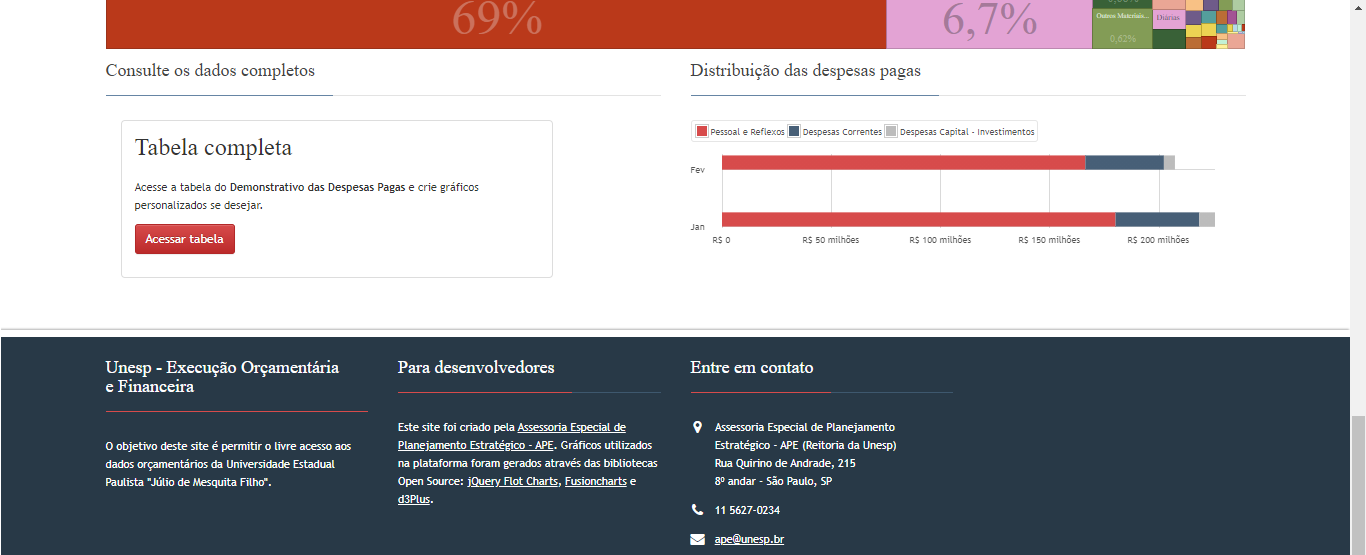
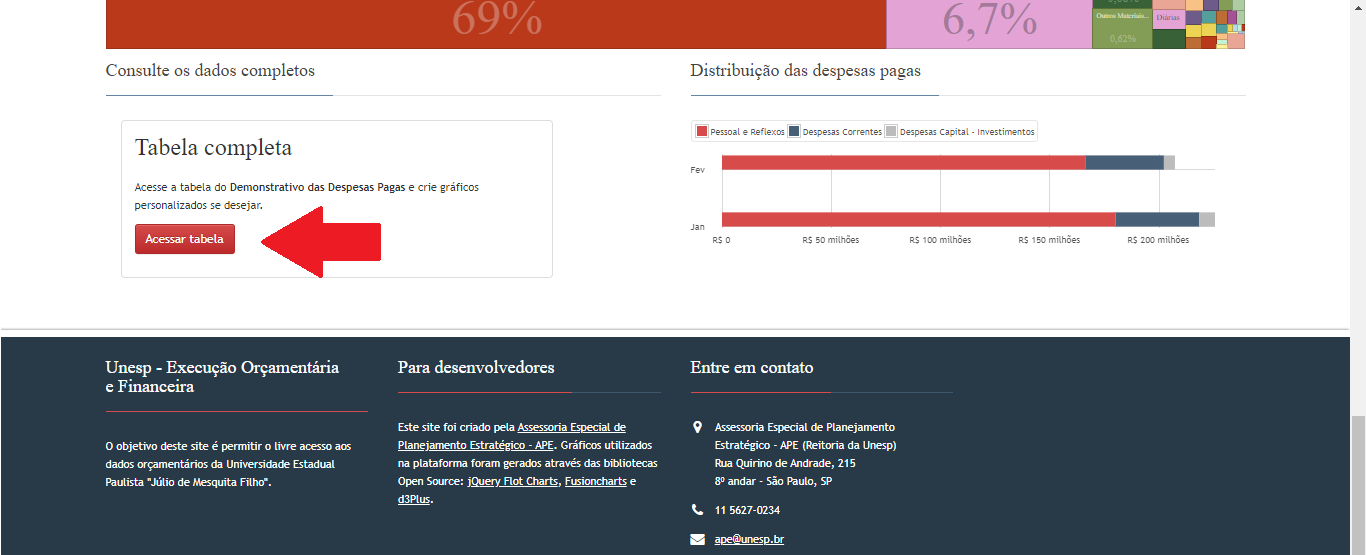
acesso

Changed region(s): [[0.1845, 0.3676, 0.2767, 0.4901]]

diff --git a/README.md b/README.md
@@ -55,7 +55,7 @@ universidade, no exemplo, selecione **10061 - UNESP CONSOLIDADA**.
 **5)** Novos campos serão apresentados, então, fizemos o preenchimento
 dos mesmos, como apresentado abaixo, para verificar os filtros
 disponíveis. O app apresenta um relatório com *infobox*’s e gráficos,
-contuido, sem os dados.
+contudo, sem a tabela de dados de interesse.
 
 <img src="https://raw.githubusercontent.com/arpanosso/projetofinal_Web_scraping/master/inst/ws_05.png" width="800px" style="display: block; margin: auto;" />
 
@@ -70,20 +70,27 @@ contuido, sem os dados.
 
 **7)** Será apresentado a tabela com os dados, ou seja, encontramos a
 nossa **url base**:
-“<https://ape.unesp.br/orcamento_anual/ddp_tabela.php>”
+“<https://ape.unesp.br/orcamento_anual/ddp_tabela.php>”, pois essa é a
+tabela que necessitamos.
 
 <img src="https://raw.githubusercontent.com/arpanosso/projetofinal_Web_scraping/master/inst/ws_07.png" width="800px" style="display: block; margin: auto;" />
 
 <br />
 
-**8)** para entender as requisições realizadas, utilizamos a opção de
-Inspecionar “Ctrl + shift + I”, em **Network**, limpamos os
-procedimentos, atualizamos a página com o **F5** e orgamizamos os
-processos por tipo. Observando o tipo “document”, clicamos em
-**ddp\_tabela.php**.
+**8)** Para entender as requisições realizadas, utilizamos a opção de
+Inspecionar “Ctrl + Shift + I”, em **Network**, atualizamos a página com
+o **F5** e ordenamos os processos por tipo (Type). Observando o tipo
+“document”, clicamos em **ddp\_tabela.php**.
 
 <img src="https://raw.githubusercontent.com/arpanosso/projetofinal_Web_scraping/master/inst/ws_08.png" width="800px" style="display: block; margin: auto;" />
 
 <br />
 
-**9)** Observe que a requisição realizada foi do tipo **GET**
+**9)** A requisição realizada foi do tipo **POST**.
+
+<img src="https://raw.githubusercontent.com/arpanosso/projetofinal_Web_scraping/master/inst/ws_10.png" width="800px" style="display: block; margin: auto;" />
+
+**10)** Rolando a aba do *Header*, verificamos o parâmetros do **body**
+da requisição, destacado abaixo.
+
+<img src="https://raw.githubusercontent.com/arpanosso/projetofinal_Web_scraping/master/inst/ws_11.png" width="800px" style="display: block; margin: auto;" />
